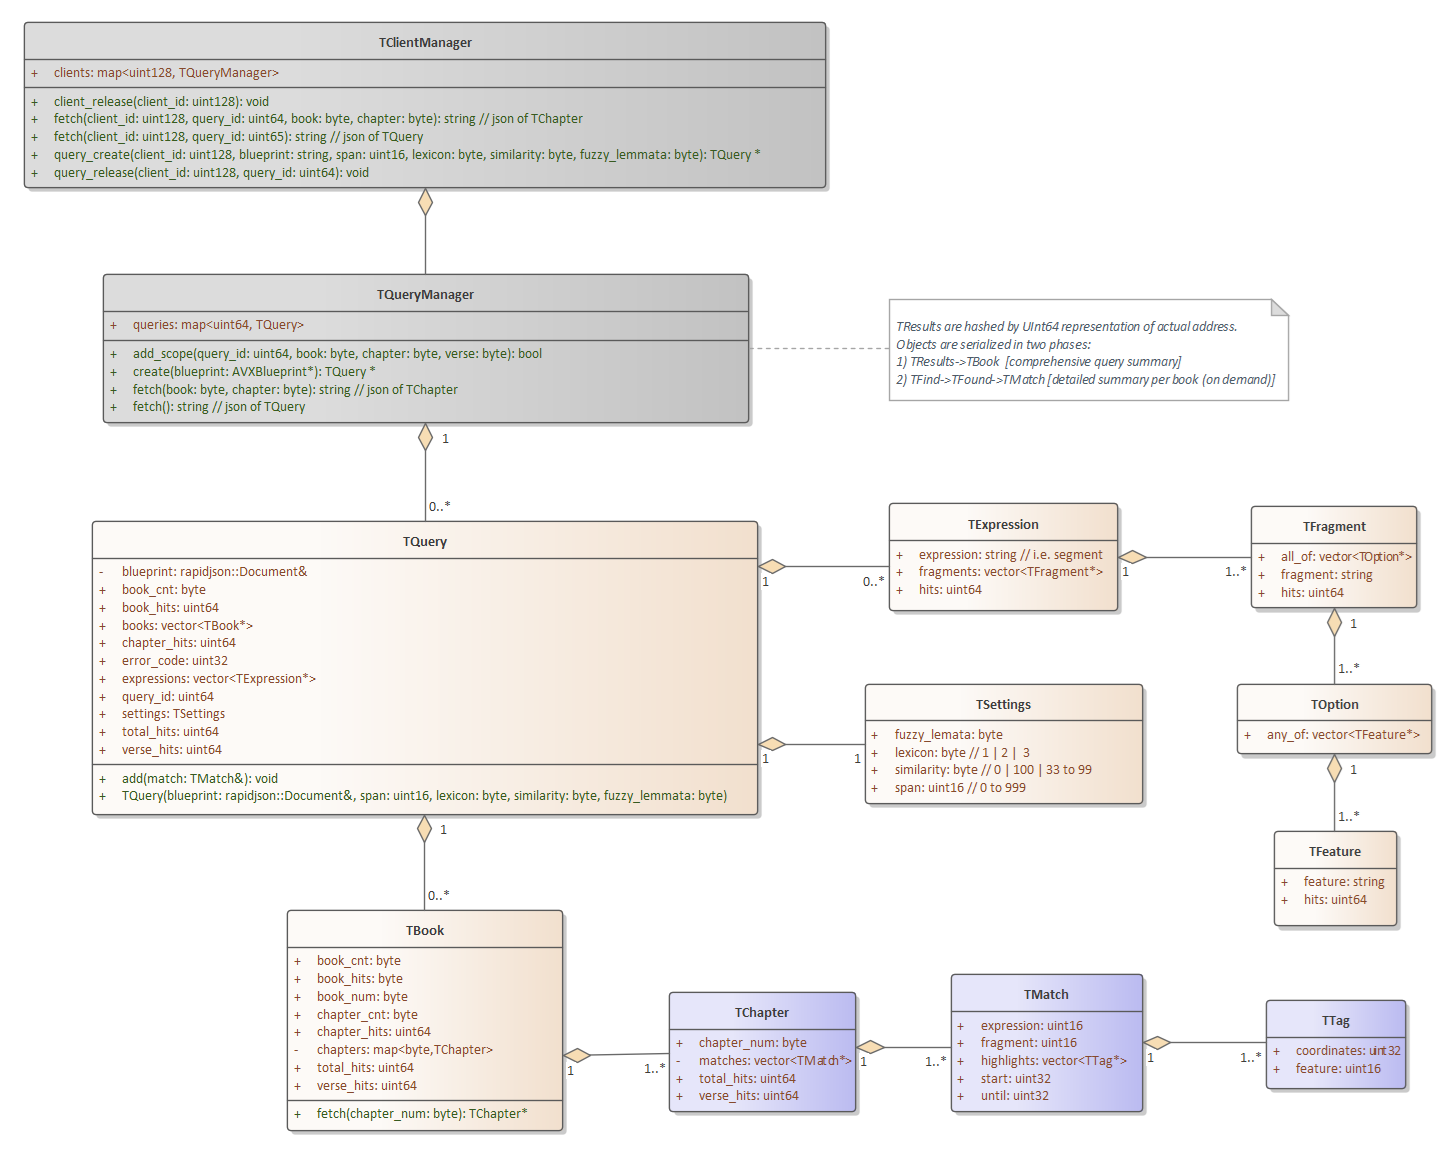
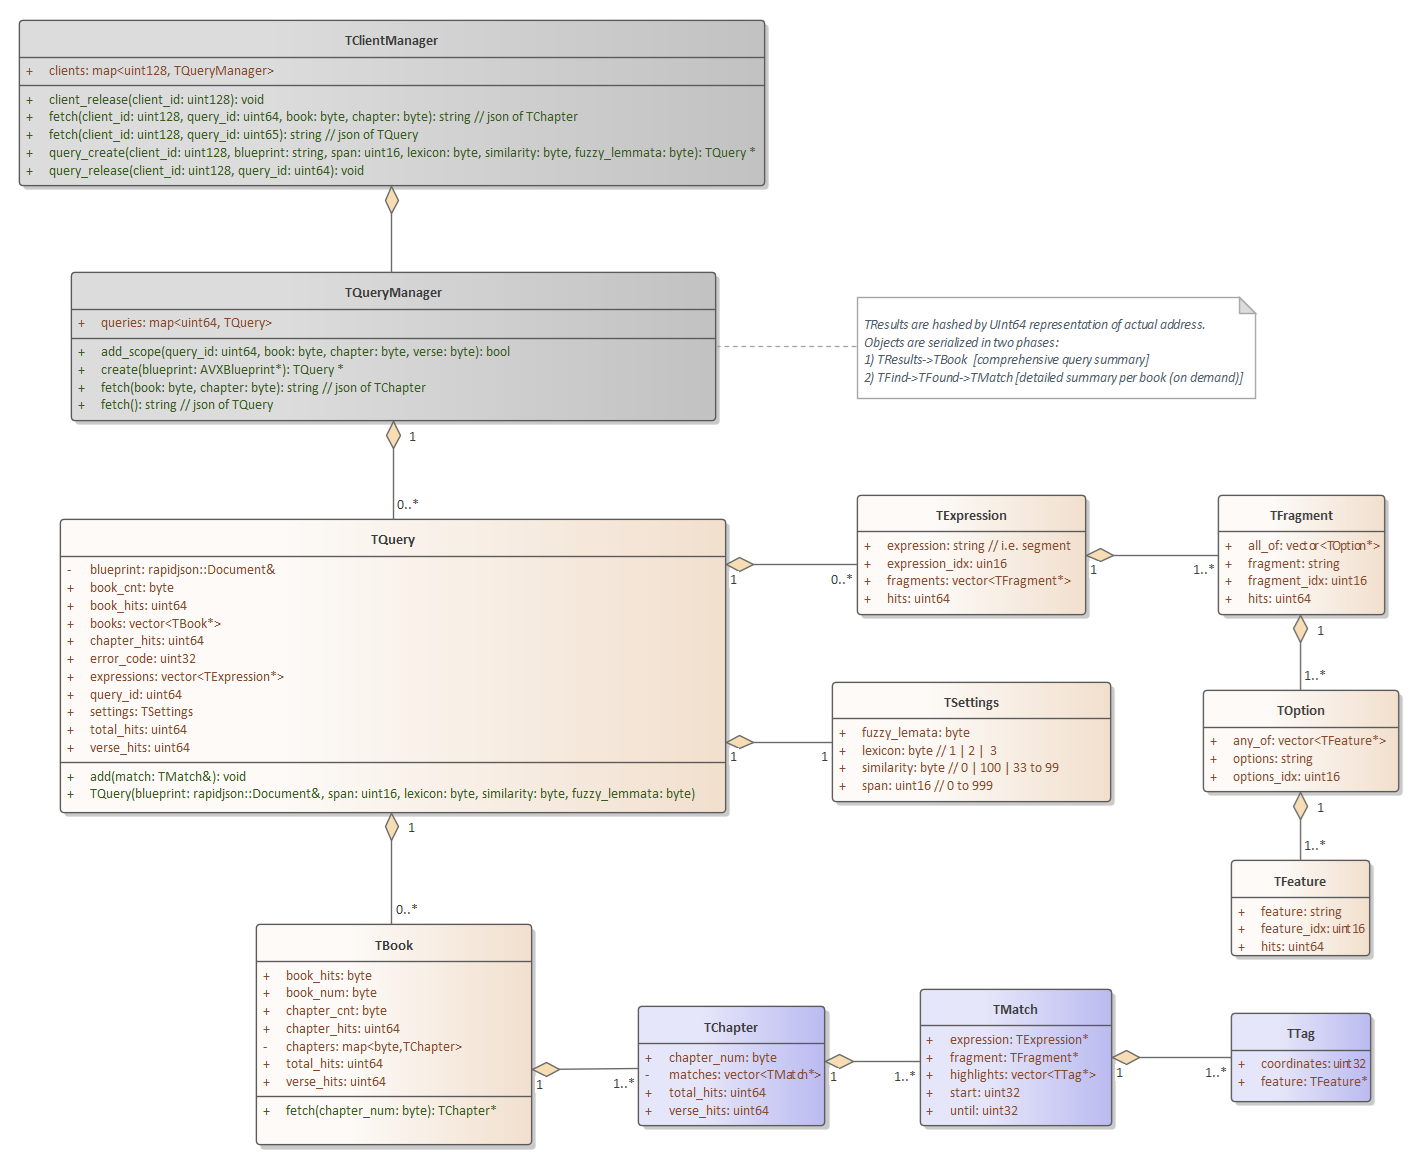
TMatch and TTag now hold references to expressions. fragments, and features (instead of just an index)

Changed region(s): [[0.031, 0.2184, 0.9922, 0.9983], [0.0, 0.0, 0.5891, 0.1872], [0.5891, 0.2496, 0.8992, 0.3432]]

diff --git a/AVXSearch/TQueryManager.cpp b/AVXSearch/TQueryManager.cpp
@@ -111,34 +111,35 @@ bool TQueryManager::search_quoted(TQuery& query, AVXFind& segment)
                     uint32 wi = w;
                     auto spanwrit = writ + 1;
 
-                    for (auto fragment : segment.fragments)
+                    for (const AVXFragment* fragment : segment.fragments)
                     {
-                        ;
-                    }/*
-                    for (uint32 seg_idx = 1; this->requirements[seg_idx]; seg_idx++)
-                    {
-                        for (auto& segment = *(this->requirements[seg_idx]); wi < len; wi++, spanwrit++)
+                        for (AVXMatchAny* req : fragment->requirements)
                         {
-                            if (!segment.compare(*spanwrit, matched))
+                            if (wi > len)
+                                break;
+
+                            if (!req->compare(*spanwrit, matched))
                             {
-                                if (segment.anchored)
+                                if (fragment->anchored)
                                     goto NOT_FOUND_1;
                                 if (wi == len-1) // end-of-verse with verse-span granularity
                                     goto NOT_FOUND_1;
                             }
+                            wi++;
+                            spanwrit++;
                         }
                     }
+                    /*
                     hit = true;
-                    auto found = new TFound();
+                    auto found = new TMatch();
                     for (auto const& [coord, pair] : matched)
                     {
                         const char* frag = std::get<0>(pair);
                         const char* feat = std::get<0>(pair);
-                        auto match = new TMatch((uint32) coord, frag, feat);
+                        auto match = new TTag(uint32(coord), feat);
                         found->add(match);
-                    }
+                    }*/
                     //this->results.founds.push_back(found);
-                    */
                 }
             NOT_FOUND_1:
                 continue;
@@ -160,29 +161,24 @@ bool TQueryManager::search_quoted(TQuery& query, AVXFind& segment)
 
                     for (auto fragment : segment.fragments)
                     {
-                        ;
-                    }/*
-
-                    for (uint32 seg_idx = 1; this->requirements[seg_idx]; seg_idx++)
-                    {
-                        for (auto& segment = *(this->requirements[seg_idx]); wi < wi_len; wi++, spanwrit++)
+                        for (auto req : fragment->requirements)
                         {
-                            if (!segment.compare(*spanwrit, matched))
+                            if (!req->compare(*spanwrit, matched))
                             {
-                                if (segment.anchored)
+                                if (fragment->anchored)
                                     goto NOT_FOUND_2;
                                 if (wi == wi_len - 1) // end-of-verse with verse-span granularity
                                     goto NOT_FOUND_2;
                             }
                         }
-                    }
+                    }/*
                     hit = true;
-                    auto found = new TFound();
+                    auto found = new TMatch();
                     for (auto const& [coord, pair] : matched)
                     {
                         const char* frag = std::get<0>(pair);
                         const char* feat = std::get<0>(pair);
-                        auto match = new AVXMatch((uint32)coord, frag, feat);
+                        auto match = new TTag(uint32(coord), feat);
                         found->add(match);
                     }*/
                     //this->results.founds.push_back(found);
@@ -244,15 +240,15 @@ bool TQueryManager::search_unquoted(TQuery& query, AVXFind& segment)
 
                     if (hit_cnt == frag_cnt)
                     {
-                        found = true;
-                        auto foundMatch = false; //  new TFound();
+                        found = true;/*
+                        auto foundMatch = new TMatch();
                         for (auto const& [coord, pair] : matched)
                         {
                             const char* frag = std::get<0>(pair);
                             const char* feat = std::get<0>(pair);
-                            //auto match = new TMatch((uint32)coord, frag, feat);
-                            //foundMatch->add(match);
-                        }
+                            auto match = new TTag(uint32(coord), feat);
+                            foundMatch->add(match);
+                        }*/
                         //this->results.founds.push_back(foundMatch);
                     }
                 }

diff --git a/AVXSearch/TMatch.cpp b/AVXSearch/TMatch.cpp
@@ -9,41 +9,10 @@
 #include <TExpression.h>
 #include <TMatch.h>
 
-TMatch::TMatch(AVXFind& segment, std::string& expression, std::string& fragment, uint32 start, uint32 until): query(query), segment(segment)
+TMatch::TMatch(AVXFind& segment, TExpression& expression, TFragment& fragment, uint32 start, uint32 until): query(query), segment(segment), expression(expression), fragment(fragment)
 {
     this->start = start;
     this->until = until;
-
-    TExpression* found = nullptr;
-    int e = 0;
-    for (auto exp : query.expressions)
-    {
-        if (exp->segment == expression)
-        {
-            this->expression = e;
-            found = exp;
-            break;
-        }
-        e++;
-    }
-    if (found != nullptr)
-    {
-        int f = 0;
-        for (auto frag : found->fragments)
-        {
-            if (frag->fragment == fragment)
-            {
-                this->fragment = f;
-                break;
-            }
-            f++;
-        }
-    }
-    else
-    {
-        this->expression = 0;
-        this->fragment = 0;
-    }
 }
 
 TMatch::~TMatch()
@@ -83,10 +52,10 @@ void TMatch::build(rapidjson::Writer<rapidjson::StringBuffer>& builder)
     builder.Uint(this->until);
 
     builder.Key("fragment");
-    builder.Uint(this->fragment);
+    builder.Uint(this->fragment.fragment_idx);
 
     builder.Key("expression");
-    builder.Uint(this->expression);
+    builder.Uint(this->expression.expression_idx);
 
     builder.Key("highlights");
     builder.StartArray();

diff --git a/AVXSearch/TOption.h b/AVXSearch/TOption.h
@@ -12,14 +12,19 @@ class AVXComparator;
 class TOption : public IBuild
 {
 public:
-	TOption(AVXMatchAny& option)
+	TOption(AVXMatchAny& match_any, uint16 match_any_idx)
 	{
-		for (auto feature : option.features)
+		this->options = match_any.options;
+		this->options_idx = match_any_idx;
+		uint16 idx = 0;
+		for (auto feature : match_any.features)
 		{
-			this->any_of.push_back(new TFeature(feature->feature));
+			this->any_of.push_back(new TFeature(feature->feature, idx++));
 		}
 	}
 	std::vector<TFeature*> any_of;
+	std::string options;
+	uint16 options_idx;
 	uint64 hits;
 
 	virtual ~TOption()
@@ -36,6 +41,12 @@ public:
 
 		builder.Key("hits");
 		builder.Uint64(this->hits);
+
+		builder.Key("options");
+		builder.String(this->options.c_str());
+
+		builder.Key("options_idx");
+		builder.Uint(this->options_idx);
 
 		builder.Key("any_of");
 		builder.StartArray();

diff --git a/AVXSearch/TExpression.cpp b/AVXSearch/TExpression.cpp
@@ -9,13 +9,15 @@
 #include "TFragment.h"
 #include <AVXFind.h>
 
-TExpression::TExpression(AVXFind& exp)
+TExpression::TExpression(AVXFind& exp, uint16 exp_idx)
 {
-	this->segment = exp.expression;
+	this->expression = exp.expression;
+	this->expression_idx = exp_idx;
 
+	uint16 idx = 0;
 	for (auto frag : exp.fragments)
 	{
-		TFragment* fragment = new TFragment(*frag);
+		TFragment* fragment = new TFragment(*frag, idx++);
 		this->fragments.push_back(fragment);
 	}
 }
@@ -32,8 +34,11 @@ void TExpression::build(rapidjson::Writer<rapidjson::StringBuffer>& builder)
 {
 	builder.StartObject();
 
-	builder.Key("segment");
-	builder.String(segment.c_str());
+	builder.Key("expression");
+	builder.String(expression.c_str());
+
+	builder.Key("expression_idx");
+	builder.Uint(expression_idx);
 
 	builder.Key("fragments");
 	builder.StartArray();

diff --git a/AVXSearch/TFragment.cpp b/AVXSearch/TFragment.cpp
@@ -9,14 +9,16 @@
 #include <TOption.h>
 #include <AVXFragment.h>
 
-TFragment::TFragment(const AVXFragment& frag)
+TFragment::TFragment(const AVXFragment& frag, uint16 frag_idx)
 {
 	this->anchored = frag.anchored ;
 	this->fragment = frag.fragment["fragment"].GetString();
+	this->fragment_idx = frag_idx;
 
+	uint16 idx = 0;
 	for (auto option : frag.requirements)
 	{
-		this->all_of.push_back(new TOption(*option));
+		this->all_of.push_back(new TOption(*option, idx++));
 	}
 }
 
@@ -34,6 +36,9 @@ void TFragment::build(rapidjson::Writer<rapidjson::StringBuffer>& builder)
 
 	builder.Key("fragment");
 	builder.String(this->fragment.c_str());
+
+	builder.Key("fragment_idx");
+	builder.Uint(this->fragment_idx);
 
 	builder.Key("anchored");
 	builder.Bool(this->anchored);

diff --git a/AVXSearch/TTag.h b/AVXSearch/TTag.h
@@ -11,17 +11,17 @@
 #include <Serialization.h>
 #include <string>
 #include <vector>
+#include <TFeature.h>
 #include <IBuild.h>
 
 class TTag : public IBuild
 {
 public:
-    uint16 feature;
+    TFeature& feature;
     uint32 coordinates;
 
-    TTag(uint32 coordinates, uint16 feature)
+    TTag(uint32 coordinates, TFeature& feature): feature(feature)
     {
-        this->feature = feature;
         this->coordinates = coordinates;
     }
     virtual ~TTag()
@@ -33,7 +33,7 @@ public:
     {
         builder.StartObject();
         builder.Key("feature");
-        builder.Uint(this->feature);
+        builder.Uint(this->feature.feature_idx);
         builder.Key("coordinates");
         builder.Uint(this->coordinates);
         builder.EndObject();

diff --git a/AVXSearch/TMatch.h b/AVXSearch/TMatch.h
@@ -12,6 +12,8 @@
 #include <IBuild.h>
 #include <TTag.h>
 #include <TQuery.h>
+#include <TExpression.h>
+#include <TFragment.h>
 
 #include <string>
 #include <vector>
@@ -21,7 +23,7 @@ class AVXFind;
 class TMatch// : public IAssign
 {
 public:
-	TMatch(AVXFind& segment, std::string& expression, std::string& fragment, uint32 start, uint32 until);
+	TMatch(AVXFind& segment, TExpression& expression, TFragment& fragment, uint32 start, uint32 until);
 	virtual ~TMatch();
 
 	uint32 start;
@@ -30,8 +32,8 @@ public:
 	bool add(TTag* match);
 
 	std::vector<TTag*> highlights;
-	uint16 expression;
-	uint16 fragment;
+	TExpression& expression;
+	TFragment& fragment;
 
 	TQuery& find();
 

diff --git a/AVXSearch/TFeature.h b/AVXSearch/TFeature.h
@@ -6,7 +6,7 @@
 class TFeature : public IBuild
 {
 public:
-	TFeature(std::string feature): feature(feature), hits(0)
+	TFeature(std::string feature, uint16 idx): feature(feature), feature_idx(idx), hits(0)
 	{
 		;
 	}
@@ -15,6 +15,7 @@ public:
 		;
 	}
 	const std::string feature;
+	const uint16 feature_idx;
 	uint64 hits;
 
 	virtual void build(rapidjson::Writer<rapidjson::StringBuffer>& builder)
@@ -23,6 +24,9 @@ public:
 
 		builder.Key("feature");
 		builder.String(this->feature.c_str());
+
+		builder.Key("feature_idx");
+		builder.Uint(this->feature_idx);
 
 		builder.Key("hits");
 		builder.Uint64(this->hits);

diff --git a/AVXSearch/TFragment.h b/AVXSearch/TFragment.h
@@ -19,11 +19,12 @@ class TFragment : public IBuild
 {
 
 public:
-	TFragment(const AVXFragment& frag);
+	TFragment(const AVXFragment& frag, uint16 frag_idx);
 	virtual ~TFragment();
 	uint64 hits;
 	bool anchored;
 	std::string fragment;
+	uint16 fragment_idx;
 	std::vector<TOption*> all_of;
 
 	virtual void build(rapidjson::Writer<rapidjson::StringBuffer>& builder);

diff --git a/AVXSearch/TExpression.h b/AVXSearch/TExpression.h
@@ -19,11 +19,12 @@
 class TExpression : public IBuild
 {
 public:
-	TExpression(AVXFind& exp);
+	TExpression(AVXFind& exp, uint16 exp_idx);
 	virtual ~TExpression();
 
 	std::vector<TFragment*> fragments;
-	std::string segment;
+	std::string expression;
+	uint16 expression_idx;
 
 	virtual void build(rapidjson::Writer<rapidjson::StringBuffer>& builder);
 };
